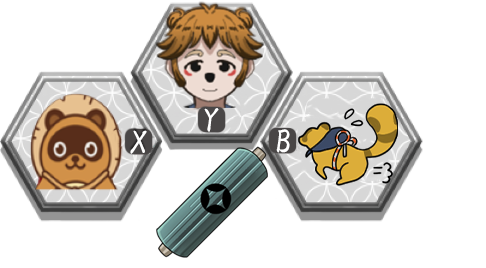
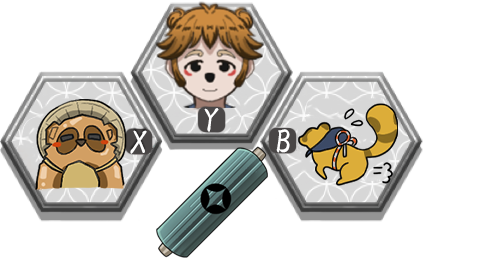
UI調整完了

Changed region(s): [[0.0309, 0.3284, 0.2778, 0.7164]]

diff --git a/Game/Game/source/counterui.h b/Game/Game/source/counterui.h
@@ -3,10 +3,10 @@
 
 namespace counter
 {
-	static constexpr auto COUNTER_TREASURE_X = 1775;//1809.0f
-	static constexpr auto COUNTER_TREASURE_Y = 100;//100.0f
-	static constexpr auto COUNTER_MAKIMONO_X = 1775;
-	static constexpr auto COUNTER_MAKIMONO_Y = 600;
+	static constexpr auto COUNTER_TREASURE_X = 255;//1809.0f
+	static constexpr auto COUNTER_TREASURE_Y = 90;//100.0f
+	static constexpr auto COUNTER_MAKIMONO_X = 175;
+	static constexpr auto COUNTER_MAKIMONO_Y = 70;
 	static constexpr auto COUNTER_TREASURE_NEXT_X = 25;
 	static constexpr auto COUNTER_MAKIMONO_NEXT_X = 25;
 }

diff --git a/Game/Game/source/henshinui.h b/Game/Game/source/henshinui.h
@@ -7,8 +7,8 @@ namespace henshin
 	static constexpr auto HENSHIN_Y = 800; //800
 	static constexpr auto TANUBITO_X = 1557;
 	static constexpr auto TANUBITO_Y = 799;
-	static constexpr auto TANUMONO_X = 1425;
-	static constexpr auto TANUMONO_Y = 890;
+	static constexpr auto TANUMONO_X = 1432;
+	static constexpr auto TANUMONO_Y = 895;
 }
 
 class HenshinUi : public UiBase
